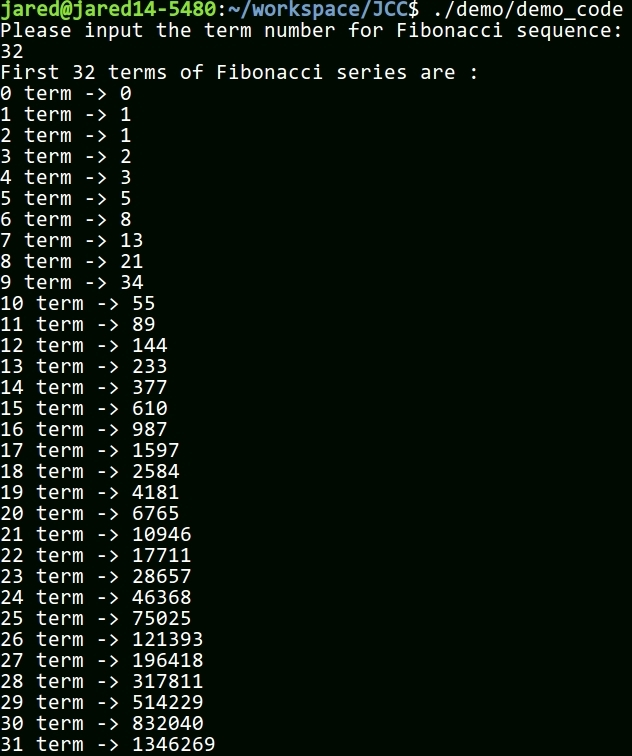
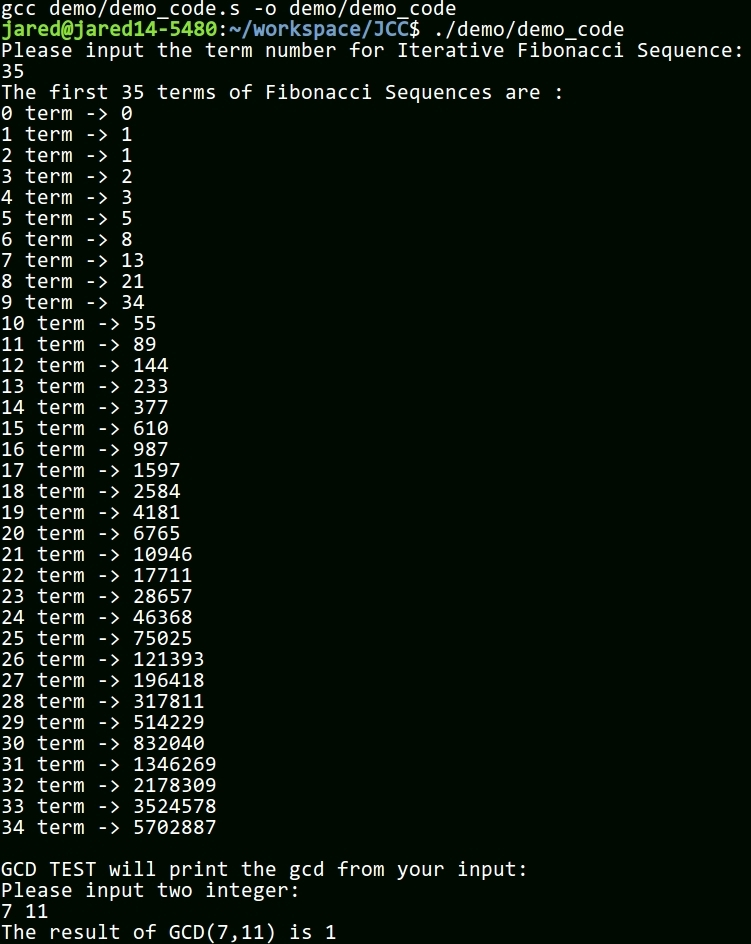
Fix "%" using error.
Make the demo_code.c more complex.

Changed region(s): [[0.0, 0.0, 0.9921, 1.0]]

diff --git a/codeGen/src/genInstr.c b/codeGen/src/genInstr.c
@@ -106,17 +106,18 @@ static void genMUL_rax(uint32_t op, uint32_t mode)
 	case tk_DIVIDE:
 	case tk_MOD:
 		strcpy(instr, "idivq");
-		reg = FindFreeReg();
-		assignReg(reg);
+		FreeReg(REG_RCX);
+		assignReg(REG_RCX);
 		FreeReg(REG_RAX);
 		assignReg(REG_RAX);
-		asmPrintf_func("    %s   %%%s\n", instr, reg_pool[reg].reg_name); /*quotient:rax   ,  remainder:rdx*/
+		asmPrintf_func("    cqo\n");/*negative idiv : http://stackoverflow.com/questions/10343155/x86-assembly-handling-the-idiv-instruction*/
+		asmPrintf_func("    %s   %%%s\n", instr, reg_pool[REG_RCX].reg_name); /*quotient:rax   ,  remainder:rdx*/
 		if (op == tk_MOD) {
 			instrMOV_REG_REG(BYTE_8, reg_pool[REG_RDX].reg_name, reg_pool[REG_RAX].reg_name);
 		}
 		setReg_Return(REG_RAX);
 		setReg_Unused(REG_RDX);
-		setReg_Unused(reg);
+		setReg_Unused(REG_RCX);
 		break;
 	default:
 		interERROR("MUL type instruction generating error!");
@@ -154,14 +155,16 @@ void genMUL(uint32_t op)
 	case tk_DIVIDE:
 	case tk_MOD:
 		strcpy(instr, "idivq");
-		assignReg_twoSecond(REG_RDX);/*reaminder*/
+		assignReg_twoSecond(REG_RCX);/*reaminder*/
 		assignReg_twoFirst(REG_RAX);/*quotient*/
-		asmPrintf_func("    %s   %%%s\n", instr, reg_pool[REG_RDX].reg_name); /*quotient:rax   ,  remainder:rdx*/
+		asmPrintf_func("    cqo\n");/*negative idiv : http://stackoverflow.com/questions/10343155/x86-assembly-handling-the-idiv-instruction*/
+		asmPrintf_func("    %s   %%%s\n", instr, reg_pool[REG_RCX].reg_name); /*quotient:rax   ,  remainder:rdx*/
 		if (op == tk_MOD) {
 			instrMOV_REG_REG(BYTE_8, reg_pool[REG_RDX].reg_name, reg_pool[REG_RAX].reg_name);
 		}
 		setReg_Return(REG_RAX);
 		setReg_Unused(REG_RDX);
+		setReg_Unused(REG_RCX);
 		operand_push(&ret_sym, NOT_SPECIFIED);
 		break;
 	default:

diff --git a/demo/demo_code.c b/demo/demo_code.c
@@ -1,12 +1,12 @@
 
-void main()
+void iterative_fibobacci()
 {
     int term;
 	int first = 0, second = 1, next, i;
  
-    printf("Please input the term number for Fibonacci sequence:\n");
+    printf("Please input the term number for Iterative Fibonacci Sequence:\n");
     scanf("%d",&term);
-   	printf("First %d terms of Fibonacci series are :\n",term);
+   	printf("The first %d terms of Fibonacci Sequences are :\n",term);
  
    	for ( i = 0 ; i < term ; )
    	{
@@ -23,5 +23,37 @@ void main()
       	printf("%d term -> %d\n",i,next);
         i =i+1;
     }
+}
+
+
+int gcd(int a, int b)
+{
+    int c;
+    for(;a != 0;)
+    {
+        c = a;
+        a = b%a;
+        b = c;
+    }
+    return b;
+}
+
+void gcd_test()
+{
+    int i;
+    int a,b;
+    int result;
+    printf("\nGCD TEST will print the gcd from your input:\n");
+    printf("Please input two integer:\n");
+    scanf("%d %d",&a,&b);
+    result = gcd(a,b);
+    printf("The result of GCD(%d,%d) is %d\n",a,b,result);
+}
+
+
+void main()
+{
+    iterative_fibobacci();
+    gcd_test();
 }
 

diff --git a/README.md b/README.md
@@ -343,8 +343,9 @@ Phase 4:Code Generation
 - I/O:`scanf` and `printf`
   - use `printf` as the C89 <stdio.h> usage.
   - use `scanf` as the C99 <stdio.h> usage.
-      - Need to do:
-        - passing `return value` from either I/O function.
+    - Only support at most `4 arguments`.
+    - Need to do:
+      - passing `return value` from either I/O function.
 
 
 - Arthimatic
@@ -359,11 +360,14 @@ Phase 4:Code Generation
 
 
 - Function Call
+  - Only support at most `4 arguments`.
   - if function return type is `int` or `char`
-    - return value is accepted.
+    - return value is accepted in limitted sutuation.
       - `Ex:a = test();`
         - However,JCC does not support mutiple function call arthimatic.
           - `Ex:a = test() + test();  will cause error!`
+      - `return` in `if` or `for` will not work.
+        - Therefore,`recursive function call` is imposible in JCC.
   - JCC does not support `expression` as parameter.
     - `Ex:add(1+2,3); will cause error!`
 
